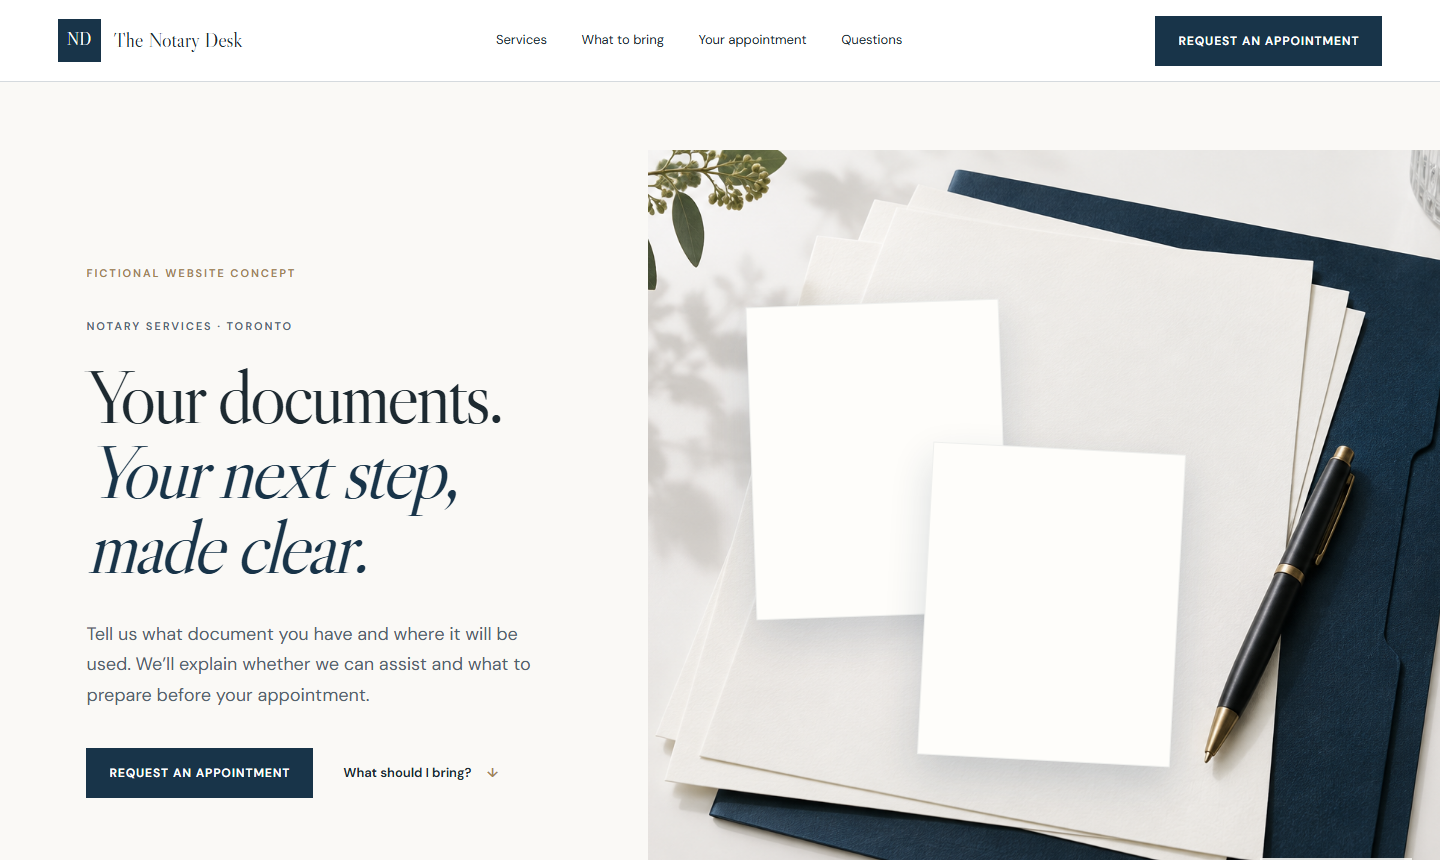
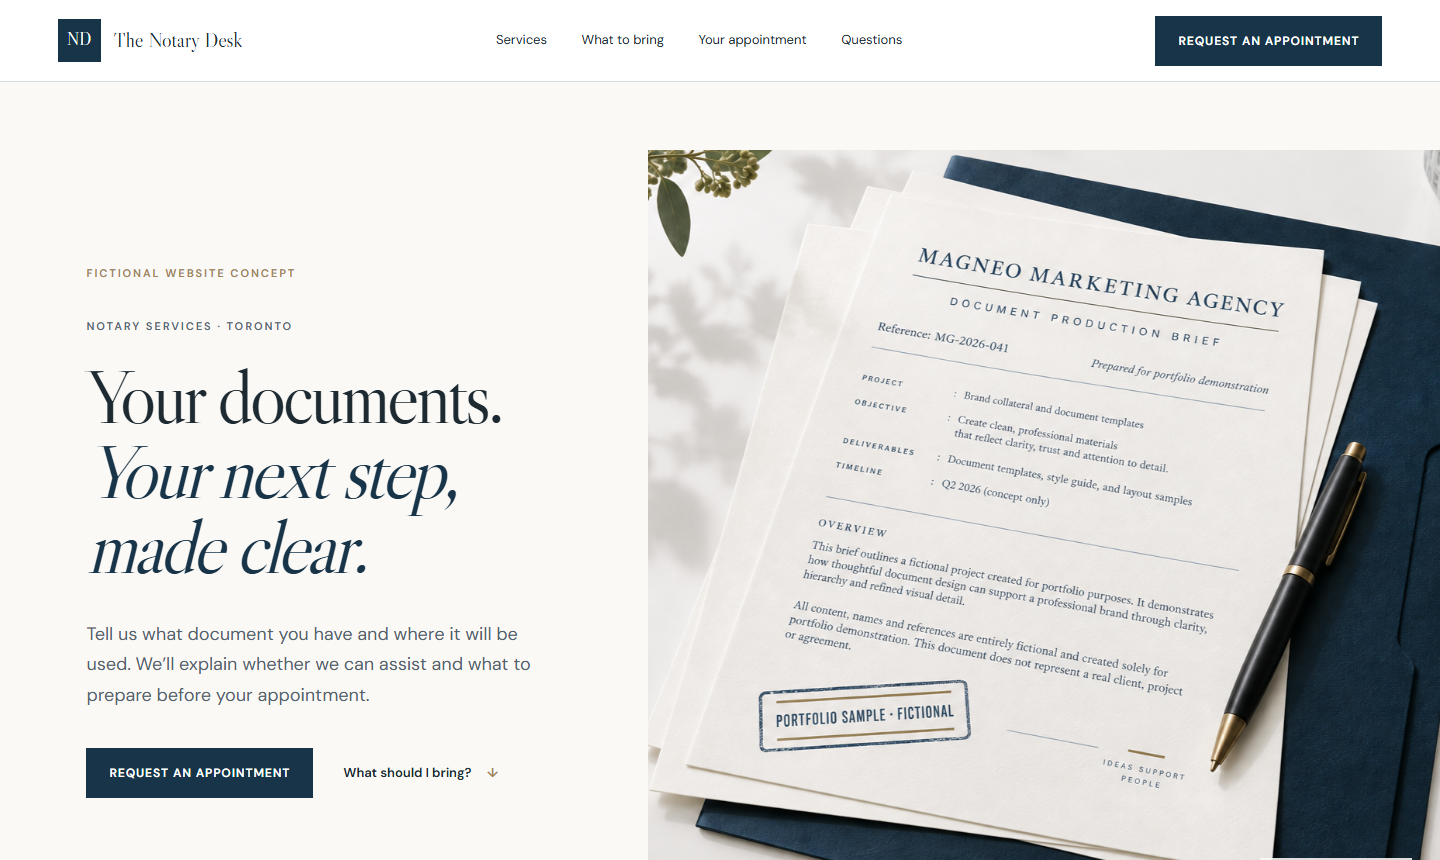
Refine notary hero document artwork

diff --git a/src/styles/notary-document-desk.css b/src/styles/notary-document-desk.css
@@ -9,6 +9,7 @@
 .nd-faq{display:grid;grid-template-columns:.75fr 1.25fr;gap:9vw;background:var(--nd-paper)}.nd-faq-intro h2{margin:25px 0 26px}.nd-faq-intro p{color:#64727a;max-width:400px}.nd-faq-list{border-top:1px solid #b9c4c9}.nd-faq-list details{border-bottom:1px solid #b9c4c9}.nd-faq-list summary{display:grid;grid-template-columns:55px 1fr 22px;gap:14px;align-items:center;padding:28px 0;font-weight:500;cursor:pointer;list-style:none}.nd-faq-list summary::-webkit-details-marker{display:none}.nd-faq-list summary>span{color:var(--nd-brass);font-size:11px}.nd-faq-list summary i{position:relative;width:16px;height:16px}.nd-faq-list summary i:before,.nd-faq-list summary i:after{content:'';position:absolute;background:var(--nd-ink);left:0;top:7px;width:14px;height:1px}.nd-faq-list summary i:after{transform:rotate(90deg);transition:.2s}.nd-faq-list details[open] summary i:after{transform:rotate(0)}.nd-faq-list details p{margin:-8px 36px 30px 69px;color:#596971;max-width:720px}
 .nd-request{padding:clamp(85px,9vw,145px) clamp(25px,7vw,120px);background:#fff;display:grid;grid-template-columns:.78fr 1.22fr;gap:8vw}.nd-request-intro h2{margin:24px 0 28px}.nd-request-intro p{color:#5c6b73;max-width:500px}.nd-request form{display:grid;grid-template-columns:1fr 1fr;gap:26px 22px}.nd-request label{font-size:11px;text-transform:uppercase;letter-spacing:.13em;color:#53636b}.nd-request label small{float:right;font-size:9px;color:#8b969a}.nd-request input,.nd-request select,.nd-request textarea{display:block;width:100%;border:0;border-bottom:1px solid #aebbc1;background:transparent;border-radius:0;padding:12px 2px;font:15px 'DM Sans',sans-serif;color:var(--nd-dark);outline:none}.nd-request textarea{border:1px solid #aebbc1;margin-top:12px;padding:14px;resize:vertical}.nd-request input:focus,.nd-request select:focus,.nd-request textarea:focus{border-color:var(--nd-ink);box-shadow:0 2px 0 var(--nd-ink)}.nd-wide{grid-column:1/-1}.nd-helper{font-size:12px;color:#68767d;margin:-8px 0 0}.nd-request button{width:100%;justify-content:space-between}.nd-demo{font-size:12px;color:#6a7478;border-left:2px solid var(--nd-brass);padding-left:14px;margin:0}.nd-form-response{color:var(--nd-ink);font-weight:600;margin:0}
 .nd-footer{padding:44px clamp(24px,5vw,80px);background:#102839;color:#fff;display:flex;justify-content:space-between;align-items:flex-end;gap:30px}.nd-footer .nd-logo span{background:#fff;color:var(--nd-ink)}.nd-footer .nd-logo b{color:#fff}.nd-footer p{max-width:620px;color:#cbd6dc;font-size:13px;margin:22px 0 0}.nd-footer>a{font-size:12px;text-transform:uppercase;letter-spacing:.12em;color:#d4bd92}
+.nd-page .nd-hero-art img{inset:-2%;width:104%;height:104%;transform-origin:center;animation:nd-desk-align 1.65s cubic-bezier(.2,.75,.25,1) .08s both}@keyframes nd-desk-align{from{transform:translate(26px,-20px) rotate(.9deg) scale(1.025)}to{transform:translate(0,0) rotate(0) scale(1)}}
 @media(max-width:1000px){.nd-header nav{display:none}.nd-hero{grid-template-columns:1fr}.nd-hero-art{min-height:520px}.nd-section-head,.nd-bring,.nd-faq,.nd-request{grid-template-columns:1fr;gap:50px}.nd-provider>div:last-child{padding:70px 48px}.nd-service-grid{grid-template-columns:1fr}.nd-service-grid article{border-right:0;border-bottom:1px solid #cfd8dc;min-height:290px}.nd-service-grid article:last-child{border-bottom:0}.nd-service-grid h3{margin-top:50px}.nd-step-grid{grid-template-columns:1fr}.nd-step-grid article{border-right:0;border-bottom:1px solid rgba(255,255,255,.25)}.nd-step-grid article:last-child{border-bottom:0}}
 @media(max-width:680px){.nd-header{height:68px;padding:0 18px}.nd-logo b{font-size:17px}.nd-logo span{width:38px;height:38px}.nd-header-button{display:none}.nd-hero{min-height:0}.nd-hero-copy{padding:64px 22px 58px}.nd-disclosure{margin-bottom:25px}.nd-hero h1{font-size:48px}.nd-hero-copy>p{font-size:16px;margin:26px 0 30px}.nd-actions{align-items:flex-start;flex-direction:column;gap:12px}.nd-hero-art{min-height:390px}.nd-paper{width:36%;height:42%}.nd-section{padding:75px 22px}.nd-section-head{margin-bottom:38px}.nd-section-head h2,.nd-bring h2,.nd-provider h2,.nd-faq h2,.nd-request h2{font-size:43px}.nd-service-grid article{padding:28px;min-height:270px}.nd-service-grid h3{font-size:34px}.nd-bring li{grid-template-columns:48px 1fr}.nd-step-grid article{padding:32px 16px;grid-template-columns:38px 1fr}.nd-provider{grid-template-columns:1fr;min-height:0}.nd-provider-image{min-height:480px}.nd-provider>div:last-child{padding:70px 22px}.nd-faq-list details p{margin:-4px 8px 28px 52px}.nd-request{padding:75px 22px}.nd-request form{grid-template-columns:1fr}.nd-wide{grid-column:auto}.nd-footer{align-items:flex-start;flex-direction:column;padding:42px 22px}}
-@media(prefers-reduced-motion:reduce){.nd-page *{scroll-behavior:auto!important}.nd-paper{animation:none!important}.nd-button{transition:none}}
+@media(prefers-reduced-motion:reduce){.nd-page *{scroll-behavior:auto!important}.nd-paper,.nd-page .nd-hero-art img{animation:none!important}.nd-button{transition:none}}

diff --git a/src/LegalWebsites.jsx b/src/LegalWebsites.jsx
@@ -8,7 +8,7 @@ const concepts = [
   { number:'04', type:'Serious injury', title:'Brain injury 3D', route:'/portfolio/legal-websites/brain-injury-3d/', image:'/brain-injury-head-3d-v2.png', className:'brain', description:'A specialist injury concept that uses 3D imagery to establish its focus and explore a distinctive way to introduce brain injury information.', tags:['3D experience','Specialist','Immersive'] },
   { number:'05', type:'Personal injury', title:'Cinematic recovery', route:'/portfolio/legal-websites/personal-injury-cinematic/', image:'/test5-cinematic-hero.png', className:'cinematic', description:'A personal injury concept that uses a documentary-style narrative to introduce the human context behind an injury claim.', tags:['Cinematic','Story-led','Atmospheric'] },
   { number:'06', type:'Personal injury', title:'Family-focused care', route:'/portfolio/legal-websites/personal-injury-family-focused/', image:'/test6-family-hero.png', className:'family', description:'A reassuring personal injury concept written for families seeking clear information after a life-changing injury.', tags:['Empathetic','Warm','Family-first'] },
-  { number:'07', type:'Notary services', title:'The document desk', route:'/portfolio/legal-websites/notary-document-desk/', image:'/notary-document-desk-hero.png', className:'notary', description:'A precise editorial notary-services concept that makes document preparation and appointment expectations easy to understand.', tags:['Editorial','Organized','Service-led'] },
+  { number:'07', type:'Notary services', title:'The document desk', route:'/portfolio/legal-websites/notary-document-desk/', image:'/notary-document-desk-hero-v2.png', className:'notary', description:'A precise editorial notary-services concept that makes document preparation and appointment expectations easy to understand.', tags:['Editorial','Organized','Service-led'] },
 ];
 
 export default function LegalWebsites(){

diff --git a/src/NotaryDocumentDesk.jsx b/src/NotaryDocumentDesk.jsx
@@ -69,8 +69,7 @@ export default function NotaryDocumentDesk(){
           <div className="nd-actions"><a className="nd-button" href="#nd-request">Request an appointment</a><a className="nd-text-link" href="#nd-bring">What should I bring? <span>↓</span></a></div>
         </div>
         <div className="nd-hero-art" aria-label="Blank papers, a document folder, and a pen arranged on a desk">
-          <img src="/notary-document-desk-hero.png" alt="Blank papers layered over an ink-blue document folder beside a pen"/>
-          <span className="nd-paper nd-paper-one" aria-hidden="true"/><span className="nd-paper nd-paper-two" aria-hidden="true"/>
+          <img src="/notary-document-desk-hero-v2.png" alt="Fictional Magneo portfolio brief arranged over an ink-blue document folder beside a pen"/>
           <small aria-hidden="true">Document desk · 01</small>
         </div>
       </section>
